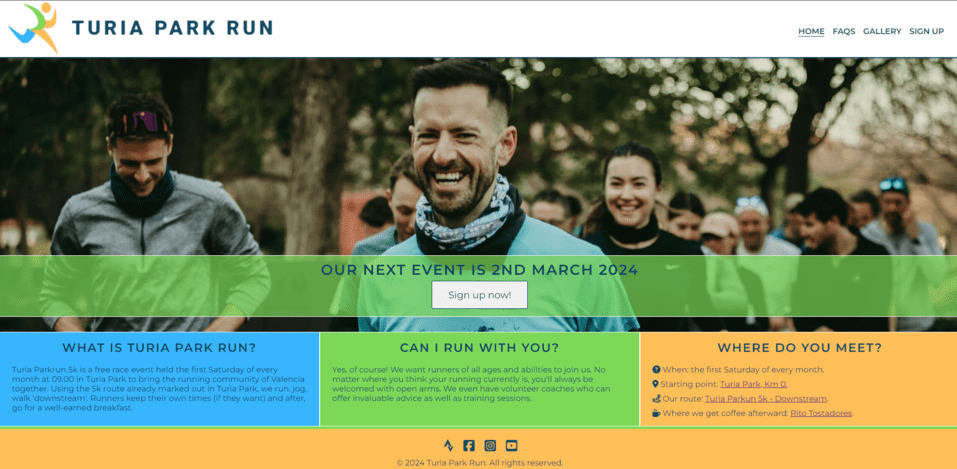
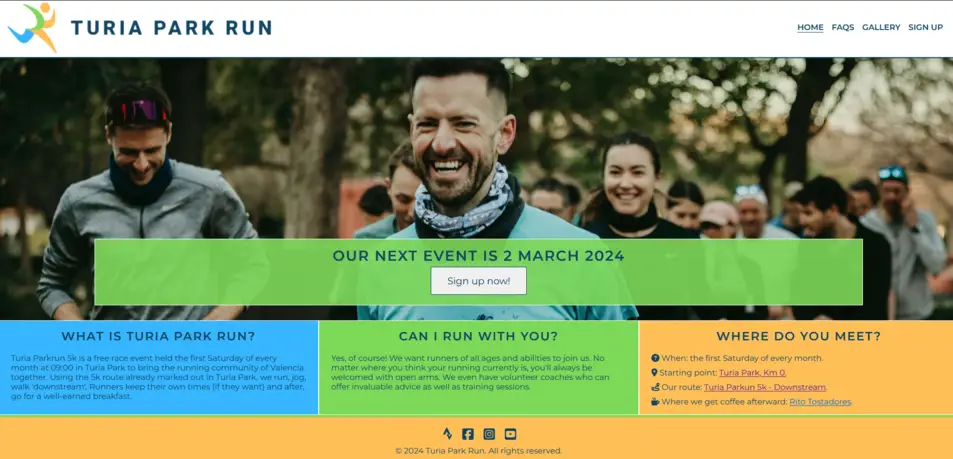
Update readme with new screenshots

diff --git a/gallery.html b/gallery.html
@@ -45,7 +45,7 @@
         <section id="gallery">
 
 
-            <h2>Saturday, 3rd February 2024</h2>
+            <h2>Saturday, 3 February 2024</h2>
 
             <div id="photos">
                 <img src="assets/images/T5k_02_18.jpg" alt="Three male runners jogging">

diff --git a/README.md b/README.md
@@ -49,6 +49,7 @@ The purpose of this website is to inform potential runners of the event e.g. dat
 * The footer section provides link to social media platforms.
 * Icon colours match  the text from the logo for consistency.
 * Icons from Font Awesome are used instead of text to create a better aesthetic look and social media platforms have been ranked in order of their most important i.e. a runner is more likely to want to link to Strava therefore this appears first.
+* Boilerplate copyright information was also added.
 
 ![Screenshot of footer section](assets/images/readme-images/footer-sm-icons.png)
 
@@ -119,10 +120,6 @@ The purpose of this website is to inform potential runners of the event e.g. dat
 * When validating the CSS, I kept returning an error 'Property text-wrap doesn't exist : nowrap'. This was fixed by changing the property to 'white-space: nowrap;'.
 * Originally, the whole div inside where the logo was contained was a clickable click to get to the home page. This fix required changing the CSS code targeting the logo to display: 'inline-block;'.
 
-#### Unsolved bugs
-
-* Although technically not a bug, the logo used was designed using a professional website that charges for a high-resolution version without gridlines. If this site were to be deployed, this logo would need to be bought. Right now, it does take a little bit away from the overall aesthetic but it is a good proof of concept.
-
 ### Validator testing
 
 #### HTML and CSS
@@ -133,7 +130,7 @@ The purpose of this website is to inform potential runners of the event e.g. dat
 
 * This site was developed with a colour scheme that is visually appealing but also very minimal, always considering the accessibility of the user.
 * All images used have an alt description attribute and the icons used for social media links use the aria-label attribute.
-* Using [Lighthouse](https://developer.chrome.com/docs/lighthouse/overview), this site scored an accessibility rating of 94 and a 95-performance rating overall.
+* Using [Lighthouse](https://developer.chrome.com/docs/lighthouse/overview), this site scored an accessibility rating of 94 and a 97-performance rating overall.
 
 ![Screenshot of Lighthouse Desktop Score](assets/images/readme-images/lighthouse-desktop.png)
 
@@ -143,13 +140,14 @@ The purpose of this website is to inform potential runners of the event e.g. dat
     * In the GitHub repository, navigate to the Settings tab.
     * From the source section drop-down menu, select the Master Branch.
     * Once the master branch has been selected, the page will be automatically refreshed with a detailed ribbon display to indicate the successful deployment.
-* The live link is [Turia Park Run](https://github.com/jdohertydev/turia-park-run).
+* The live link is [Turia Park Run](https://jdohertydev.github.io/turia-park-run/index.html).
 
 ## Credits
 
 ### Content
 * This site was inspired by the Love Running walkthrough and many of the pages have used code from it. Without this resource, it would have been difficult to produce something so professional.
 * The FAQ page was adapted from ['How to Create an Effective Faq Page Design with HTML and CSS'](https://www.youtube.com/watch?v=6U-8kIx2oMk).
+* Advice was given by my mentor as well direct support from the Code Institute.
 
 ### Media
 
